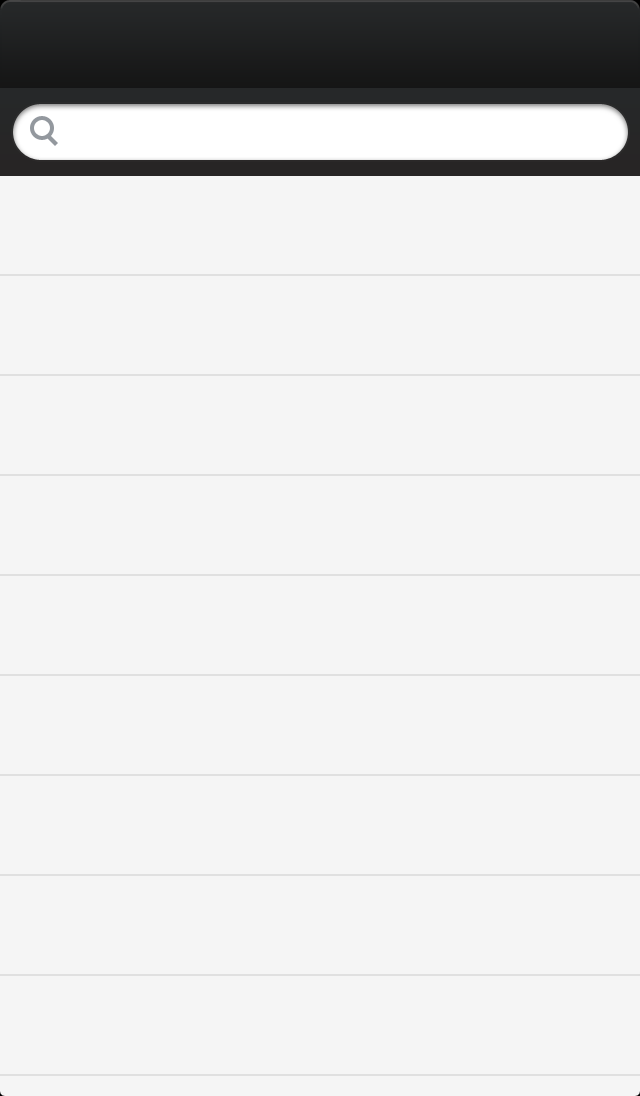
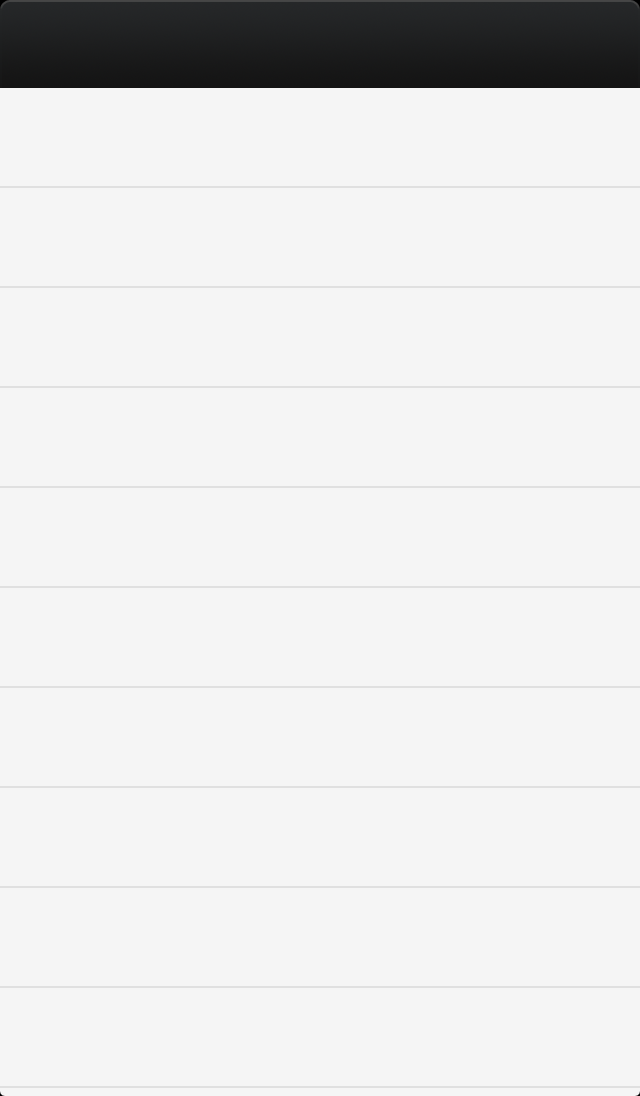
Change #5 Hide search bar when app launches and user refreshes feed
The dispatch_once function is used because viewWillLayoutSubviews will be called multiply times during the view's lifecycle but the hide search bar method only needs to be called once when the app launches. I've also removed the search bar from all the Default images to reflect this change.

Changed region(s): [[0.0, 0.062, 1.0, 0.1861]]

diff --git a/SITMOS/IGEpisodesListViewController.m b/SITMOS/IGEpisodesListViewController.m
@@ -65,6 +65,13 @@
         [_tableView addSubview:refreshView];
         _refreshHeaderView = refreshView;
     }
+    
+    static dispatch_once_t onceToken;
+    dispatch_once(&onceToken, ^{
+        dispatch_async(dispatch_get_main_queue(), ^{
+            [self hideSearchBar];
+        });
+    });
 }
 
 - (void)viewDidLoad
@@ -363,6 +370,15 @@
     _filteredEpisodeArray = [NSMutableArray arrayWithArray:tempArray];
 }
 
+#pragma mark - Hide Search Bar
+
+- (void)hideSearchBar
+{
+    CGRect newBounds = [_tableView bounds];
+    newBounds.origin.y = newBounds.origin.y + _searchBar.bounds.size.height;
+    [_tableView setBounds:newBounds];
+}
+
 #pragma mark - Play Episode
 
 - (void)playEpisode:(IGEpisode *)episode
@@ -504,6 +520,7 @@
 {
 	_reloading = NO;
 	[_refreshHeaderView egoRefreshScrollViewDataSourceDidFinishedLoading:_tableView];
+    [self hideSearchBar];
 }
 
 #pragma mark - IGEpisodeTableViewCellDelegate Methods
